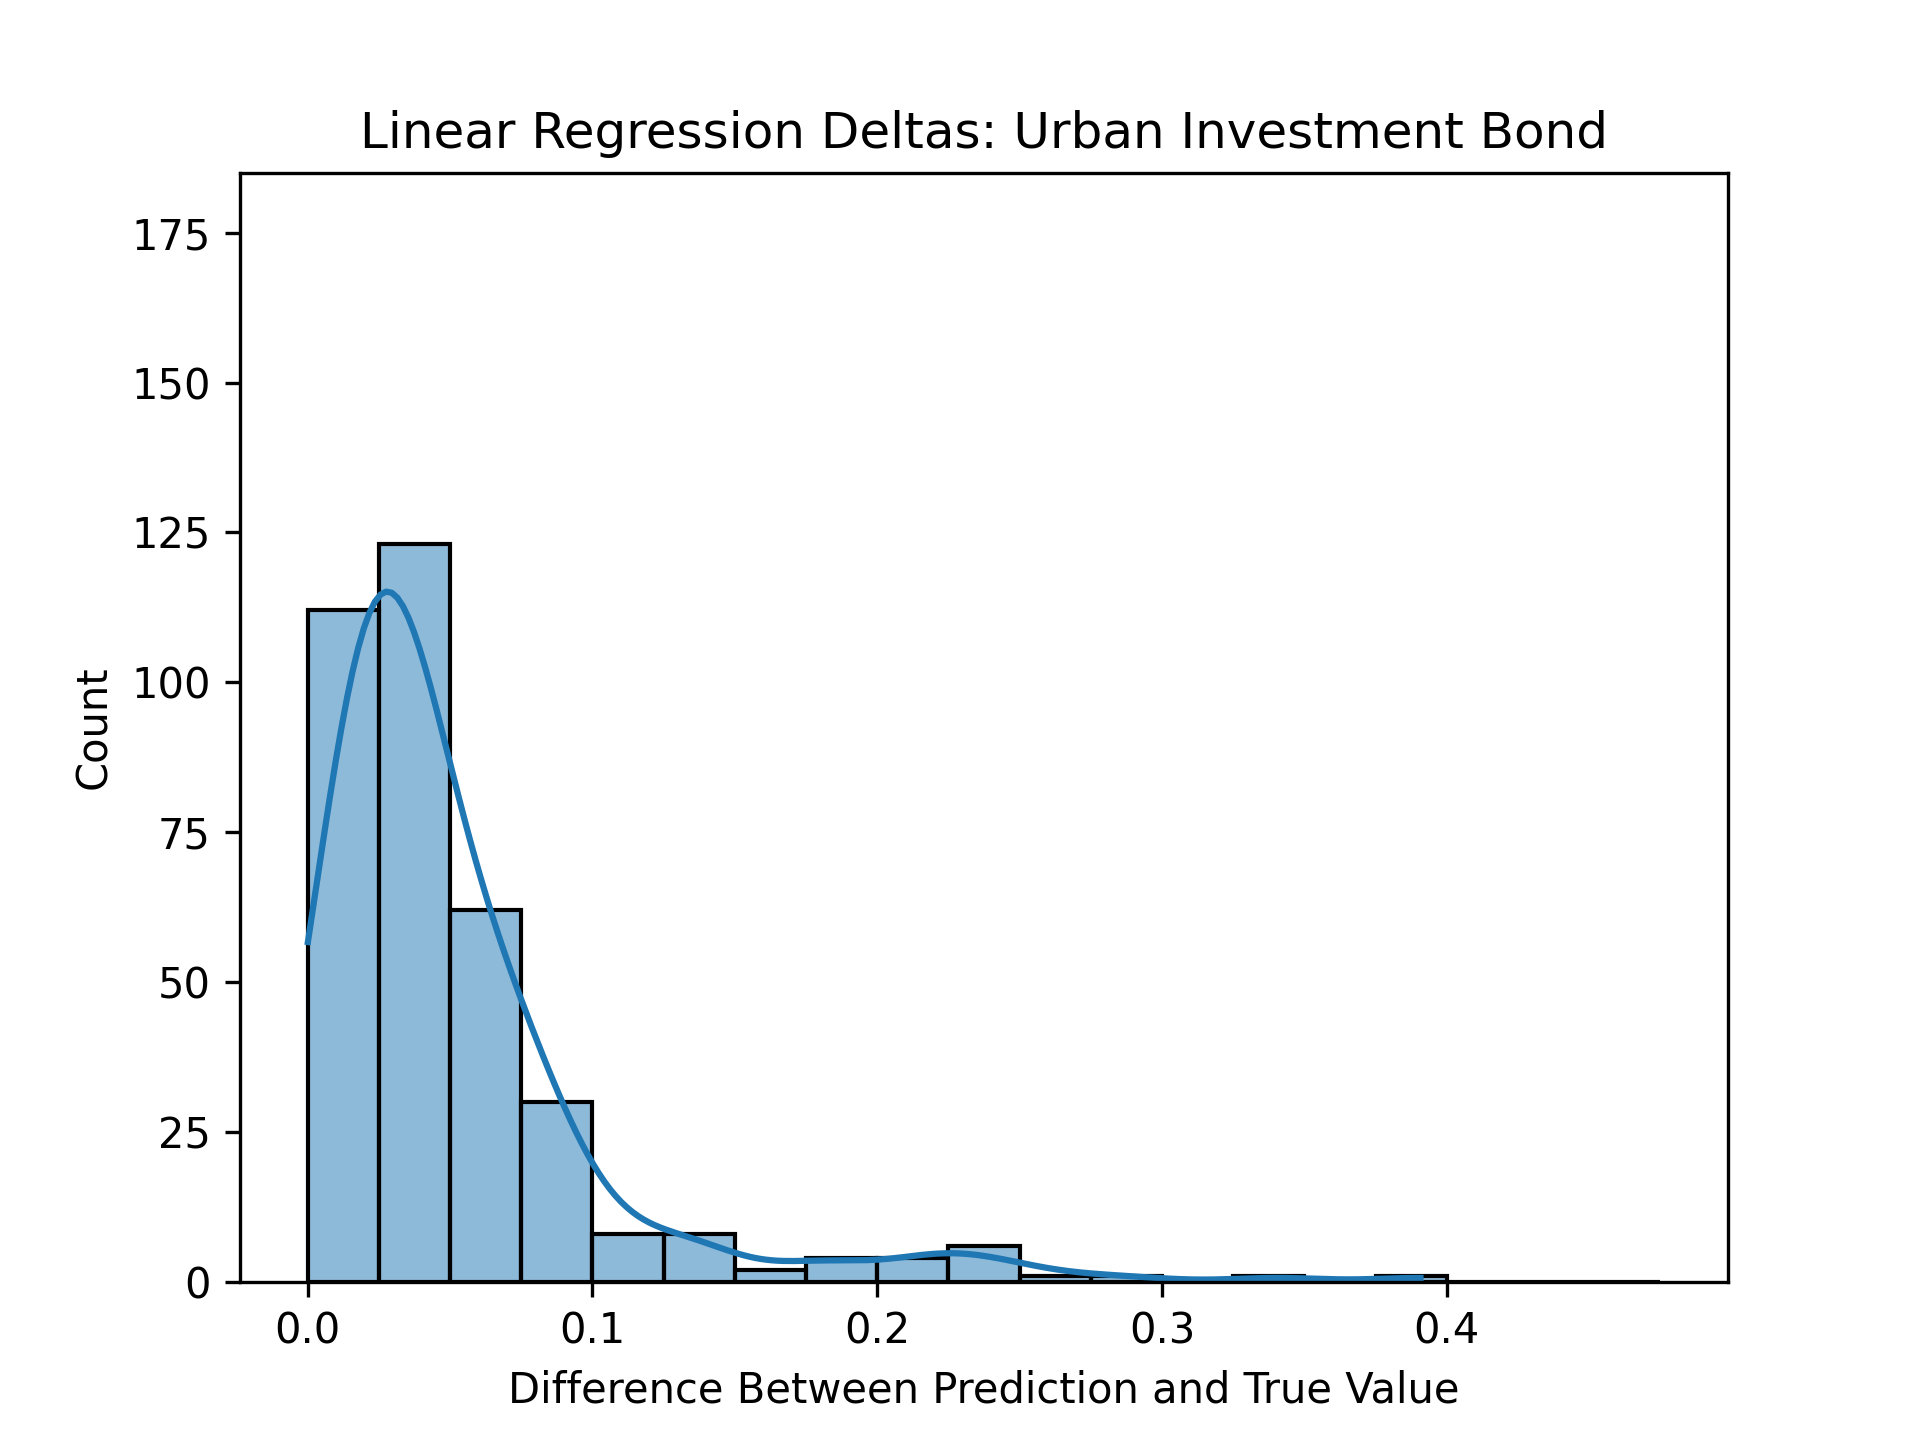
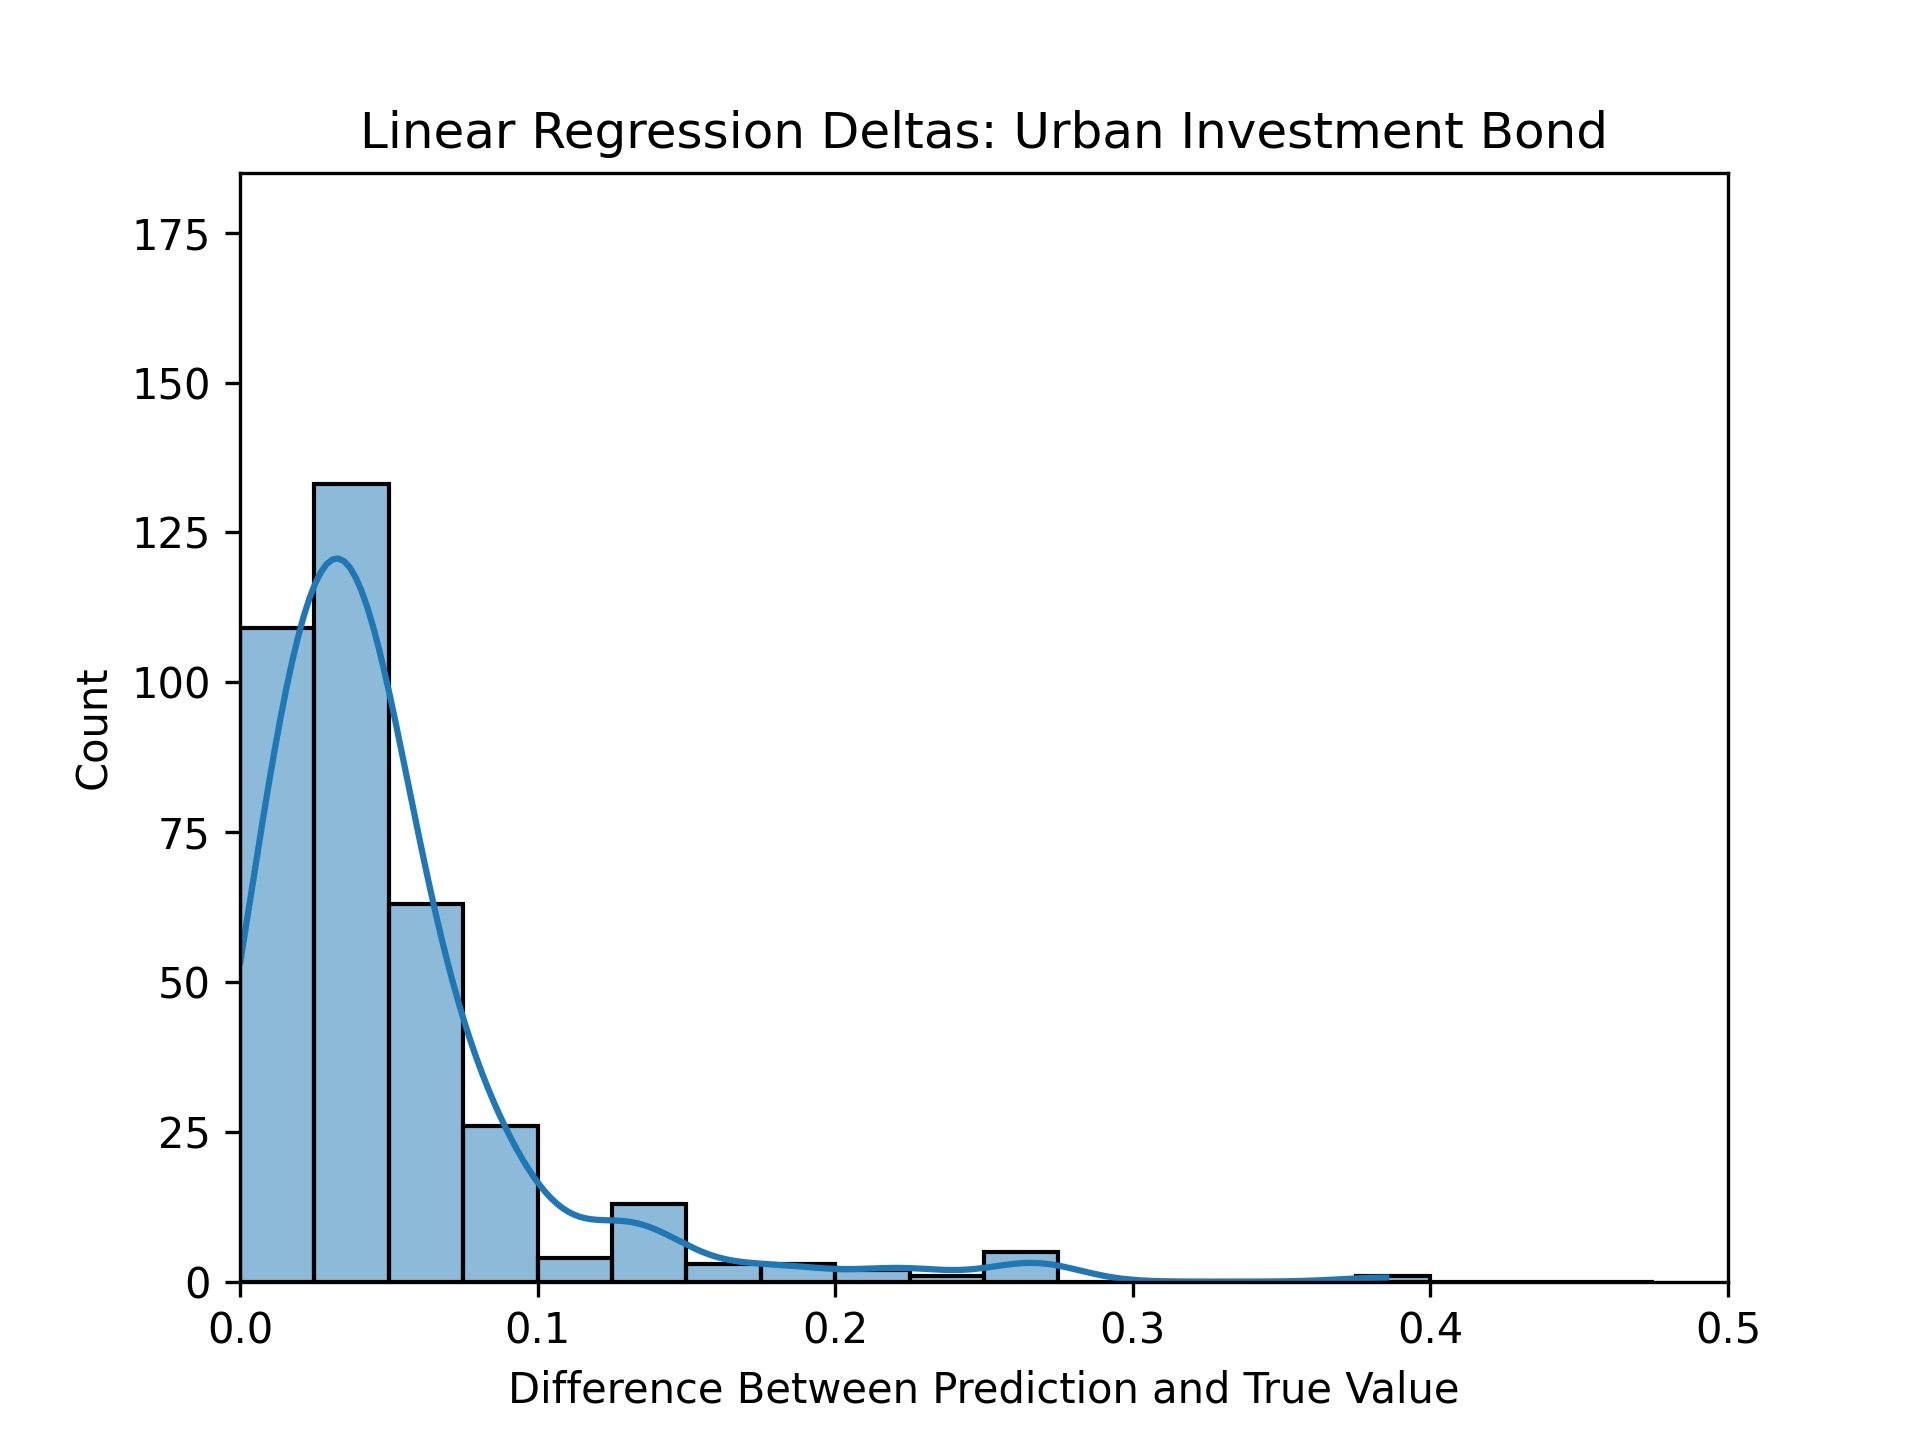
edited x axes for histograms
edited x axes for histograms

Changed region(s): [[0.0938, 0.3125, 0.625, 0.9375], [0.7188, 0.875, 0.7812, 0.9375], [0.875, 0.9062, 0.9062, 0.9375]]

diff --git a/Code/random_forest_regressor.py b/Code/random_forest_regressor.py
@@ -171,10 +171,12 @@ def random_forest_regressor(outcome, features, hyperparams, num):
     deltas = abs(predictions - y_test)
     if outcome == outcome1:
         sns.histplot(deltas, bins=np.arange(0, 1.25, 0.05), kde=True, legend=False)
+        plt.xlim(0, 1.25)
         plt.ylim(0, 135)
         plt.title("Random Forest Deltas: LGFV Debt")
     elif outcome == outcome2:
         sns.histplot(deltas, bins=np.arange(0, 0.5, 0.025), kde=True, legend=False)
+        plt.xlim(0, .5)
         plt.ylim(0, 185)
         plt.title("Random Forest Deltas: Urban Investment Bond")
     else:

diff --git a/Code/baseline_linear_regression_best_features.py b/Code/baseline_linear_regression_best_features.py
@@ -180,10 +180,12 @@ def lin_reg(outcome, features, num):
     # manually set bin size based on outcome
     if outcome == outcome1:
         sns.histplot(deltas, bins=np.arange(0, 1.25, 0.05), kde=True, legend=False)
+        plt.xlim(0, 1.25)
         plt.ylim(0, 135)
         plt.title("Linear Regression Deltas: LGFV Debt")
     elif outcome == outcome2:
         sns.histplot(deltas, bins=np.arange(0, 0.5, 0.025), kde=True, legend=False)
+        plt.xlim(0, .5)
         plt.ylim(0, 185)
         plt.title("Linear Regression Deltas: Urban Investment Bond")
     else:
